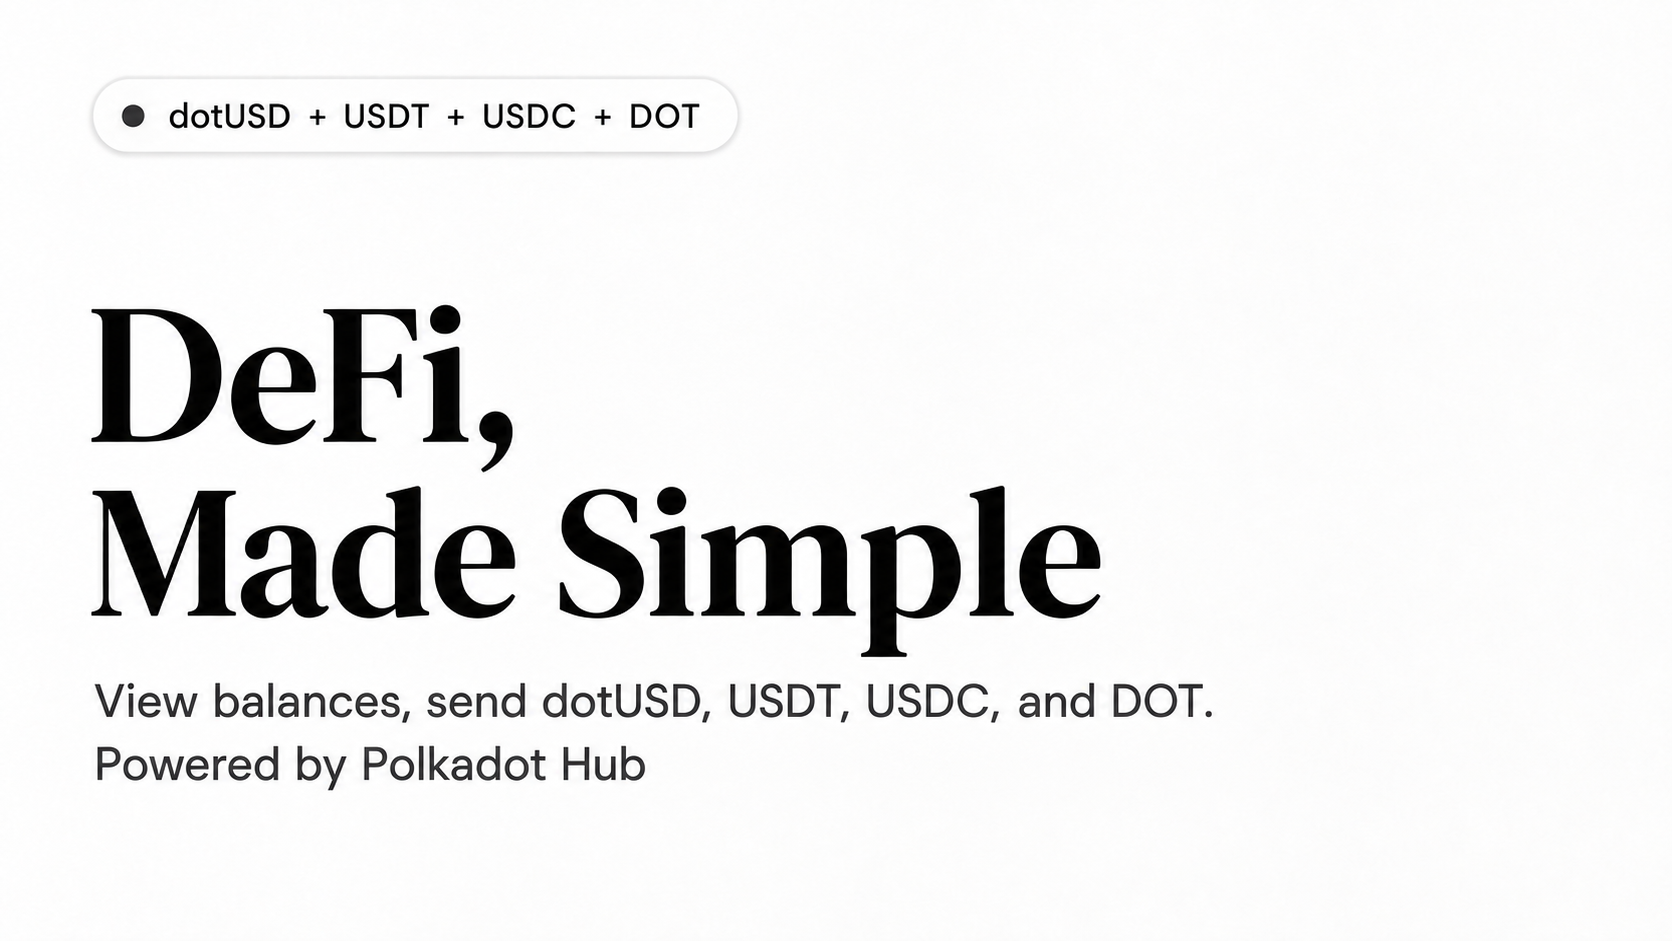
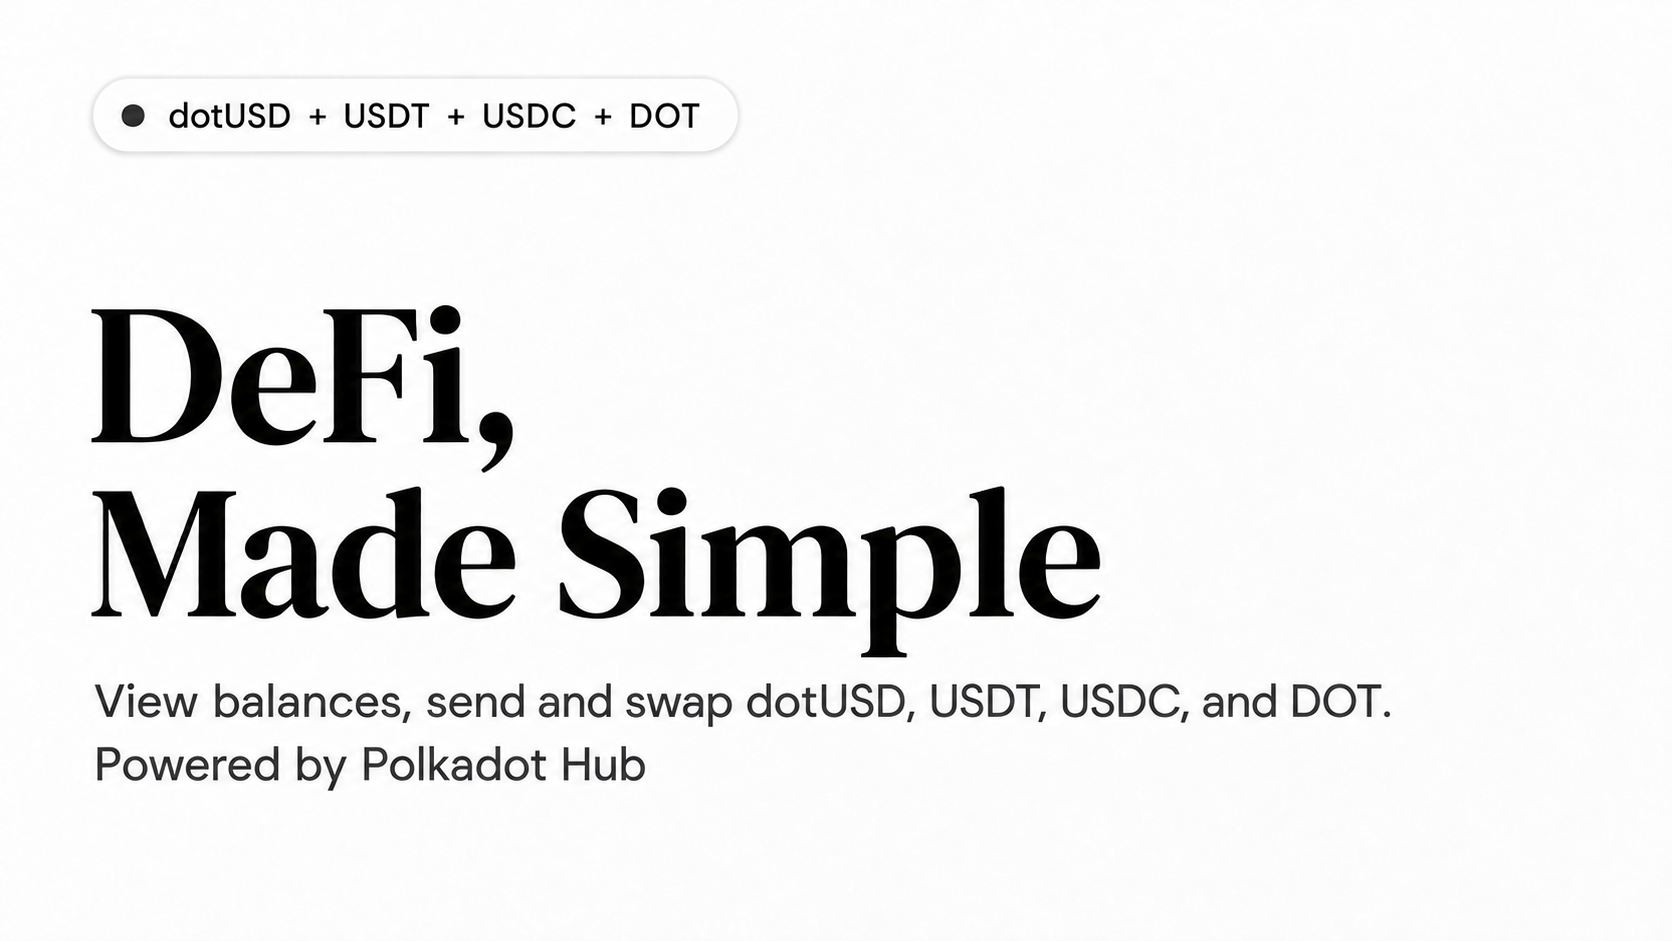
fixes

diff --git a/packages/tests/src/swapRefresh.test.tsx b/packages/tests/src/swapRefresh.test.tsx
@@ -498,9 +498,11 @@ test('polling retains the route, slippage, fee and enabled button until the repl
 	expect(button.disabled).toBe(false)
 	assertStable()
 	expect(feeText()).toBe('100')
+	expect(container.textContent).toContain('renewingQuote')
 
 	await act(async () => pendingQuotes.resolve([quote(115_000, 98_000n)]))
 	expect(feeText()).toBe('100')
+	expect(container.textContent).toContain('renewingQuote')
 	expect(button.disabled).toBe(false)
 	expect(input('youReceive').value).toBe('0.099')
 	await act(async () => pendingFee.resolve(120n))
@@ -512,6 +514,7 @@ test('polling retains the route, slippage, fee and enabled button until the repl
 	expect(input('youReceive').value).toBe('0.098')
 	expect(views.every((view) => view.valid && view.fee > 0n)).toBe(true)
 	expect(estimate).toHaveBeenCalledTimes(2)
+	expect(container.textContent).not.toContain('renewingQuote')
 })
 
 test('editing the input invalidates the old quote immediately and ignores an in-flight refresh', async () => {
@@ -716,17 +719,75 @@ test('an unavailable market refresh keeps the visible details but blocks submiss
 	expect(container.querySelector<HTMLDivElement>('[role="slider"]')).toBe(
 		slippage,
 	)
-	const refresh = [...container.querySelectorAll('button')].find(
-		(item) => item.textContent === 'refreshQuote',
-	)!
-	expect(refresh.disabled).toBe(false)
-	expect(button.previousElementSibling).toBe(refresh)
-	expect(refresh.closest('[role="status"]')).toBeNull()
+	expect(container.textContent).not.toContain('refreshQuote')
 	quotes.mockImplementation(async () => [quote(Date.now())])
-	await act(async () => refresh.click())
-	await advance(250)
+	await advance(15_000)
 	expect(submitButton().disabled).toBe(false)
-	expect(container.contains(refresh)).toBe(false)
+	expect(container.textContent).not.toContain('quoteExpired')
+})
+
+test('expiry automatically renews the quote and shows progress until its fee is ready', async () => {
+	quotes.mockImplementationOnce(async () => [quote(Date.now() - 10_000)])
+	await configure()
+	quotes.mockRejectedValueOnce(new Error('Network unavailable'))
+	await advance(15_000)
+	expect(submitButton().disabled).toBe(false)
+	const pendingQuotes = deferred<SwapQuote[]>()
+	const pendingFee = deferred<bigint>()
+	quotes.mockReturnValueOnce(pendingQuotes.promise)
+	estimate.mockReturnValueOnce(pendingFee.promise)
+	await advance(5_001)
+	expect(quotes).toHaveBeenCalledTimes(3)
+	expect(submitButton().disabled).toBe(true)
+	expect(input('youPay').value).toBe('0.1')
+	expect(input('youReceive').value).toBe('0.099')
+	expect(container.querySelector('[role="status"]')?.textContent).toBe(
+		'renewingQuote',
+	)
+	expect(container.textContent).not.toContain('refreshQuote')
+	expect(container.textContent).not.toContain('Network unavailable')
+	await act(async () => pendingQuotes.resolve([quote(Date.now(), 98_000n)]))
+	expect(container.textContent).toContain('renewingQuote')
+	expect(submitButton().disabled).toBe(true)
+	await act(async () => pendingFee.resolve(120n))
+	expect(container.textContent).not.toContain('renewingQuote')
+	expect(input('youReceive').value).toBe('0.098')
+	expect(feeText()).toBe('120')
+	expect(submitButton().disabled).toBe(false)
+})
+
+test('expiry waits for an existing renewal instead of issuing overlapping requests', async () => {
+	await configure()
+	const pending = deferred<SwapQuote[]>()
+	quotes.mockReturnValueOnce(pending.promise)
+	await advance(30_001)
+	expect(quotes).toHaveBeenCalledTimes(2)
+	expect(container.textContent).toContain('renewingQuote')
+	expect(submitButton().disabled).toBe(true)
+	await act(async () => pending.resolve([quote(Date.now())]))
+	expect(container.textContent).not.toContain('renewingQuote')
+	expect(submitButton().disabled).toBe(false)
+})
+
+test('retry immediately shows renewal progress and shares the in-flight request', async () => {
+	await configure()
+	quotes.mockRejectedValueOnce(new Error('Network unavailable'))
+	await advance(15_000)
+	const pending = deferred<SwapQuote[]>()
+	quotes.mockReturnValueOnce(pending.promise)
+	const retry = [...container.querySelectorAll('button')].find(
+		(button) => button.textContent === 'retry',
+	)!
+	await act(async () => {
+		retry.click()
+		retry.click()
+	})
+	expect(quotes).toHaveBeenCalledTimes(3)
+	expect(container.textContent).toContain('renewingQuote')
+	expect(container.textContent).not.toContain('Network unavailable')
+	await act(async () => pending.resolve([quote(Date.now())]))
+	expect(container.textContent).not.toContain('renewingQuote')
+	expect(submitButton().disabled).toBe(false)
 })
 
 test('a failed background fee estimate retains the last complete quote and never enables an unestimated replacement', async () => {

diff --git a/packages/app-swap/src/pages/Swap/index.tsx b/packages/app-swap/src/pages/Swap/index.tsx
@@ -6,7 +6,6 @@ import { isValidAddress } from '@polkadot-cloud/util-dedot'
 import { getFeeTokenIcon } from 'consts/stablecoins'
 import { DefaultSwapSlippageBps, swapDecimals } from 'consts/swap'
 import { useStablecoinBalances, useTheme } from 'hooks'
-import { useQuoteExpired } from 'hooks/useQuoteExpired'
 import { useSwapQuote } from 'hooks/useSwapQuote'
 import { useEffect, useRef, useState } from 'react'
 import { useTranslation } from 'react-i18next'
@@ -57,7 +56,17 @@ export const Swap = () => {
 		? (recipientAccount?.address ?? '')
 		: (account?.address ?? '')
 	const recipientValid = isValidAddress(recipient)
-	const { quotes, quote, tx, fee, error, refresh, requestKey } = useSwapQuote({
+	const {
+		quotes,
+		quote,
+		tx,
+		fee,
+		error,
+		loading,
+		expired,
+		refresh,
+		requestKey,
+	} = useSwapQuote({
 		account,
 		assetIn,
 		assetOut,
@@ -78,7 +87,6 @@ export const Swap = () => {
 				quotedToken,
 			)
 		: undefined
-	const expired = useQuoteExpired(quote?.fetchedAt)
 	const maxInput = quote
 		? quote.kind === 'amm' && mode === 'exactOut'
 			? slippageLimit(quote.amountIn, slippage, 'maximum')
@@ -89,7 +97,7 @@ export const Swap = () => {
 			? slippageLimit(quote.amountOut, slippage)
 			: quote.amountOut
 		: 0n
-	const routeLoading = parsed > 0n && !quotes && !error
+	const routeLoading = loading && !quote
 	const renderAmountField = (editable: boolean) => {
 		const token = editable ? amountToken : quotedToken
 		const paying = editable === (mode === 'exactIn')
@@ -232,13 +240,14 @@ export const Swap = () => {
 					)}
 					<TransactionAction
 						beforeSubmit={
-							expired && (
-								<ButtonSecondary
-									text={t('refreshQuote')}
-									size="lg"
-									className={classes.refreshQuote}
-									onClick={refresh}
-								/>
+							quote &&
+							loading && (
+								<div className={classes.renewingQuote} role="status">
+									<span aria-hidden>
+										<Spinner style={{ width: '1rem' }} />
+									</span>
+									{t('renewingQuote')}
+								</div>
 							)
 						}
 						tx={tx}
@@ -259,7 +268,6 @@ export const Swap = () => {
 							// A wallet may broadcast after the user has already changed the form.
 							if (currentRequestKey.current !== requestKey) return
 							setAmount('')
-							refresh()
 						}}
 					>
 						<SendForm.Note
@@ -322,7 +330,9 @@ export const Swap = () => {
 						<SendForm.Note label={t('priceImpact')}>
 							{quote ? `${quote.priceImpactBps / 100}%` : '—'}
 						</SendForm.Note>
-						{expired && <ExchangeNotice>{t('quoteExpired')}</ExchangeNotice>}
+						{expired && !loading && (
+							<ExchangeNotice>{t('quoteExpired')}</ExchangeNotice>
+						)}
 					</TransactionAction>
 				</SendForm.Card>
 			</SendForm.Container>

diff --git a/packages/hooks/src/useSwapQuote/index.ts b/packages/hooks/src/useSwapQuote/index.ts
@@ -1,9 +1,10 @@
 // Copyright 2026 @polkadot-cloud/polkadot-cloud-apps authors & contributors
 // SPDX-License-Identifier: GPL-3.0-only
 
-import { useCallback, useEffect, useMemo, useState } from 'react'
+import { useCallback, useEffect, useMemo, useRef, useState } from 'react'
 import { useTranslation } from 'react-i18next'
 import { useApi } from '../useApi'
+import { useQuoteExpired } from '../useQuoteExpired'
 import type {
 	PreparedSwapQuote,
 	UseSwapQuote,
@@ -24,8 +25,10 @@ export const useSwapQuote = ({
 	const { serviceApi } = useApi()
 	const { t } = useTranslation('swap')
 	const exchange = serviceApi.swap
-	const [revision, setRevision] = useState(0)
-	const refresh = useCallback(() => setRevision((value) => value + 1), [])
+	const fetchRef = useRef<() => Promise<void>>(undefined)
+	const refresh = useCallback(() => {
+		void fetchRef.current?.()
+	}, [])
 	const [state, setState] = useState<PreparedSwapQuote>()
 	// Market snapshots may refresh this request without invalidating its last
 	// usable quote. User edits and account/service changes invalidate it immediately.
@@ -41,6 +44,11 @@ export const useSwapQuote = ({
 		const fetch = async () => {
 			if (running) return
 			running = true
+			setState((previous) => ({
+				...(previous?.request === request ? previous : { request }),
+				loading: true,
+				error: undefined,
+			}))
 			try {
 				const quotes = await exchange.quotes(request)
 				if (stale) return
@@ -69,6 +77,7 @@ export const useSwapQuote = ({
 				if (!stale)
 					setState({
 						request,
+						loading: false,
 						quotes,
 						quote,
 						tx,
@@ -78,6 +87,7 @@ export const useSwapQuote = ({
 				if (stale) return
 				setState((previous) => ({
 					...(previous?.request === request ? previous : { request }),
+					loading: false,
 					error:
 						error instanceof Error
 							? error.message
@@ -87,14 +97,22 @@ export const useSwapQuote = ({
 				running = false
 			}
 		}
+		fetchRef.current = fetch
 		const timer = setTimeout(fetch, 250)
 		const poll = setInterval(fetch, 15_000)
 		return () => {
 			stale = true
+			fetchRef.current = undefined
 			clearTimeout(timer)
 			clearInterval(poll)
 		}
-	}, [request, revision])
+	}, [request])
 	const current = state?.request === request ? state : undefined
-	return { ...current, requestKey, refresh }
+	const expired = useQuoteExpired(current?.quote?.fetchedAt)
+	useEffect(() => {
+		if (expired) refresh()
+	}, [expired, refresh])
+	const loading =
+		current?.loading ?? (!!exchange && amount > 0n && assetIn !== assetOut)
+	return { ...current, loading, expired, requestKey, refresh }
 }

diff --git a/packages/hooks/src/useSwapQuote/types.ts b/packages/hooks/src/useSwapQuote/types.ts
@@ -13,9 +13,10 @@ export type UseSwapQuoteProps = SwapRequest & {
 	feeAsset: SwapToken
 }
 
-// Quotes, transaction, fee, and any error associated with one swap request.
+// Quotes, transaction, fee, and loading or error state associated with one swap request.
 export type PreparedSwapQuote = {
 	request: SwapRequest
+	loading: boolean
 	quotes?: SwapQuote[]
 	quote?: SwapQuote
 	tx?: SubmittableExtrinsic
@@ -23,8 +24,10 @@ export type PreparedSwapQuote = {
 	error?: string
 }
 
-// Current quote state, request identity, and a callback to refresh the quote.
+// Current quote, loading and expiry status, and a callback to refresh immediately.
 export type UseSwapQuote = Partial<PreparedSwapQuote> & {
 	requestKey: string
+	loading: boolean
+	expired: boolean
 	refresh: () => void
 }

diff --git a/packages/app-swap/src/pages/Swap/index.module.scss b/packages/app-swap/src/pages/Swap/index.module.scss
@@ -43,9 +43,12 @@
 	white-space: nowrap;
 }
 
-.refreshQuote {
-	width: 100%;
-	min-height: 3.25rem;
+.renewingQuote {
+	display: flex;
+	align-items: center;
+	gap: 0.5rem;
+	color: var(--text-tertiary);
+	font-size: 1.1rem;
 }
 
 .recipientSetting {
